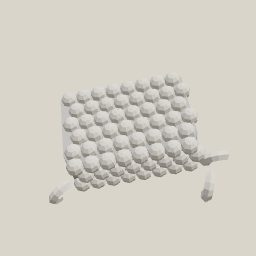
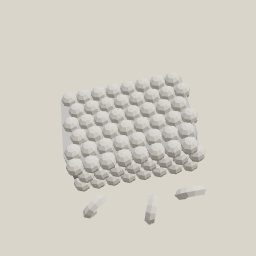
Kaffeesatz auf großem Filterpapier, Alufolie heller mit mehr Glanz, Styropor-Chips am Boden; Vorschaubilder neu

diff --git a/components/game/models/gelber-sack.tsx b/components/game/models/gelber-sack.tsx
@@ -16,16 +16,18 @@ export function renderGelberSackModel(key: string, name: string) {
             geo={G.crumple(0.3, 0.8, 5, 2)}
             scale={[1.25, 0.22, 0.95]}
             flat
-            color="#AAB5C3"
-            roughness={0.5}
+            color="#CBD3DE"
+            roughness={0.35}
+            metalness={0.5}
           />
           {/* Knäuel liegt auf dem Blatt (Unterseite taucht ins Blatt ein) */}
           <Part
             geo={G.crumple(0.17, 0.95, 11, 2)}
             pos={[0.04, 0.13, 0.02]}
             flat
-            color="#D6DCE6"
-            roughness={0.5}
+            color="#F6F8FB"
+            roughness={0.35}
+            metalness={0.5}
           />
           {/* Glanzkanten auf Blatt und Knäuel (Lambert kennt keinen Glanz) */}
           {(
@@ -33,6 +35,9 @@ export function renderGelberSackModel(key: string, name: string) {
               [-0.18, 0.045, 0.1, 0.5],
               [0.2, 0.05, -0.12, -0.4],
               [0.02, 0.27, 0.0, 0.3],
+              [-0.3, 0.05, -0.05, 1.1],
+              [0.28, 0.05, 0.12, 0.2],
+              [0.1, 0.22, 0.08, -0.7],
             ] as [number, number, number, number][]
           ).map(([x, y, z, r], i) => (
             <Part
@@ -635,9 +640,9 @@ export function renderGelberSackModel(key: string, name: string) {
           })}
           {(
             [
-              [0.36, -0.08, 0.2],
-              [-0.35, -0.09, 0.22],
-              [0.3, -0.1, 0.32],
+              [0.22, -0.09, 0.34],
+              [-0.2, -0.09, 0.32],
+              [0.04, -0.09, 0.38],
             ] as V3[]
           ).map((p, i) => (
             <Part

diff --git a/components/game/models/bio.tsx b/components/game/models/bio.tsx
@@ -85,11 +85,11 @@ export function renderBioModel(key: string, name: string) {
         // Kaffeesatz: festgepresster Espresso-Puck (dunkel, mit Riss und
         // hellerem Rand) mit losen Krümeln und zwei Kaffeebohnen daneben
         return (
-          <group rotation={[0.6, 0.3, 0]}>
+          <group rotation={[0.95, 0.3, 0]}>
             {/* Gebrauchtes Filterpapier, darauf ein Haufen feuchter Kaffeesatz mit losen Krümeln */}
-            <Part geo={G.box(0.5, 0.012, 0.42, 0.004)} pos={[0, -0.04, 0]} color="#E7D8B8" roughness={1} />
-            <Part geo={G.crumple(0.2, 0.55, 7, 2)} pos={[0, 0.0, 0]} scale={[1.45, 0.55, 1.2]} flat color="#3B2418" roughness={1} />
-            <Part geo={G.crumple(0.09, 0.5, 3, 1)} pos={[-0.12, 0.05, 0.04]} scale={[1.2, 0.6, 1]} flat color="#4A2E1E" roughness={1} />
+            <Part geo={G.box(0.78, 0.012, 0.62, 0.004)} pos={[0, -0.04, 0]} color="#F3E8C8" roughness={1} />
+            <Part geo={G.crumple(0.2, 0.5, 7, 2)} pos={[0, -0.01, 0]} scale={[1.3, 0.4, 1.1]} flat color="#5A3A26" roughness={1} />
+            <Part geo={G.crumple(0.09, 0.5, 3, 1)} pos={[-0.12, 0.03, 0.04]} scale={[1.2, 0.5, 1]} flat color="#6B4630" roughness={1} />
             {(
               [
                 [0.24, -0.03, 0.1],
